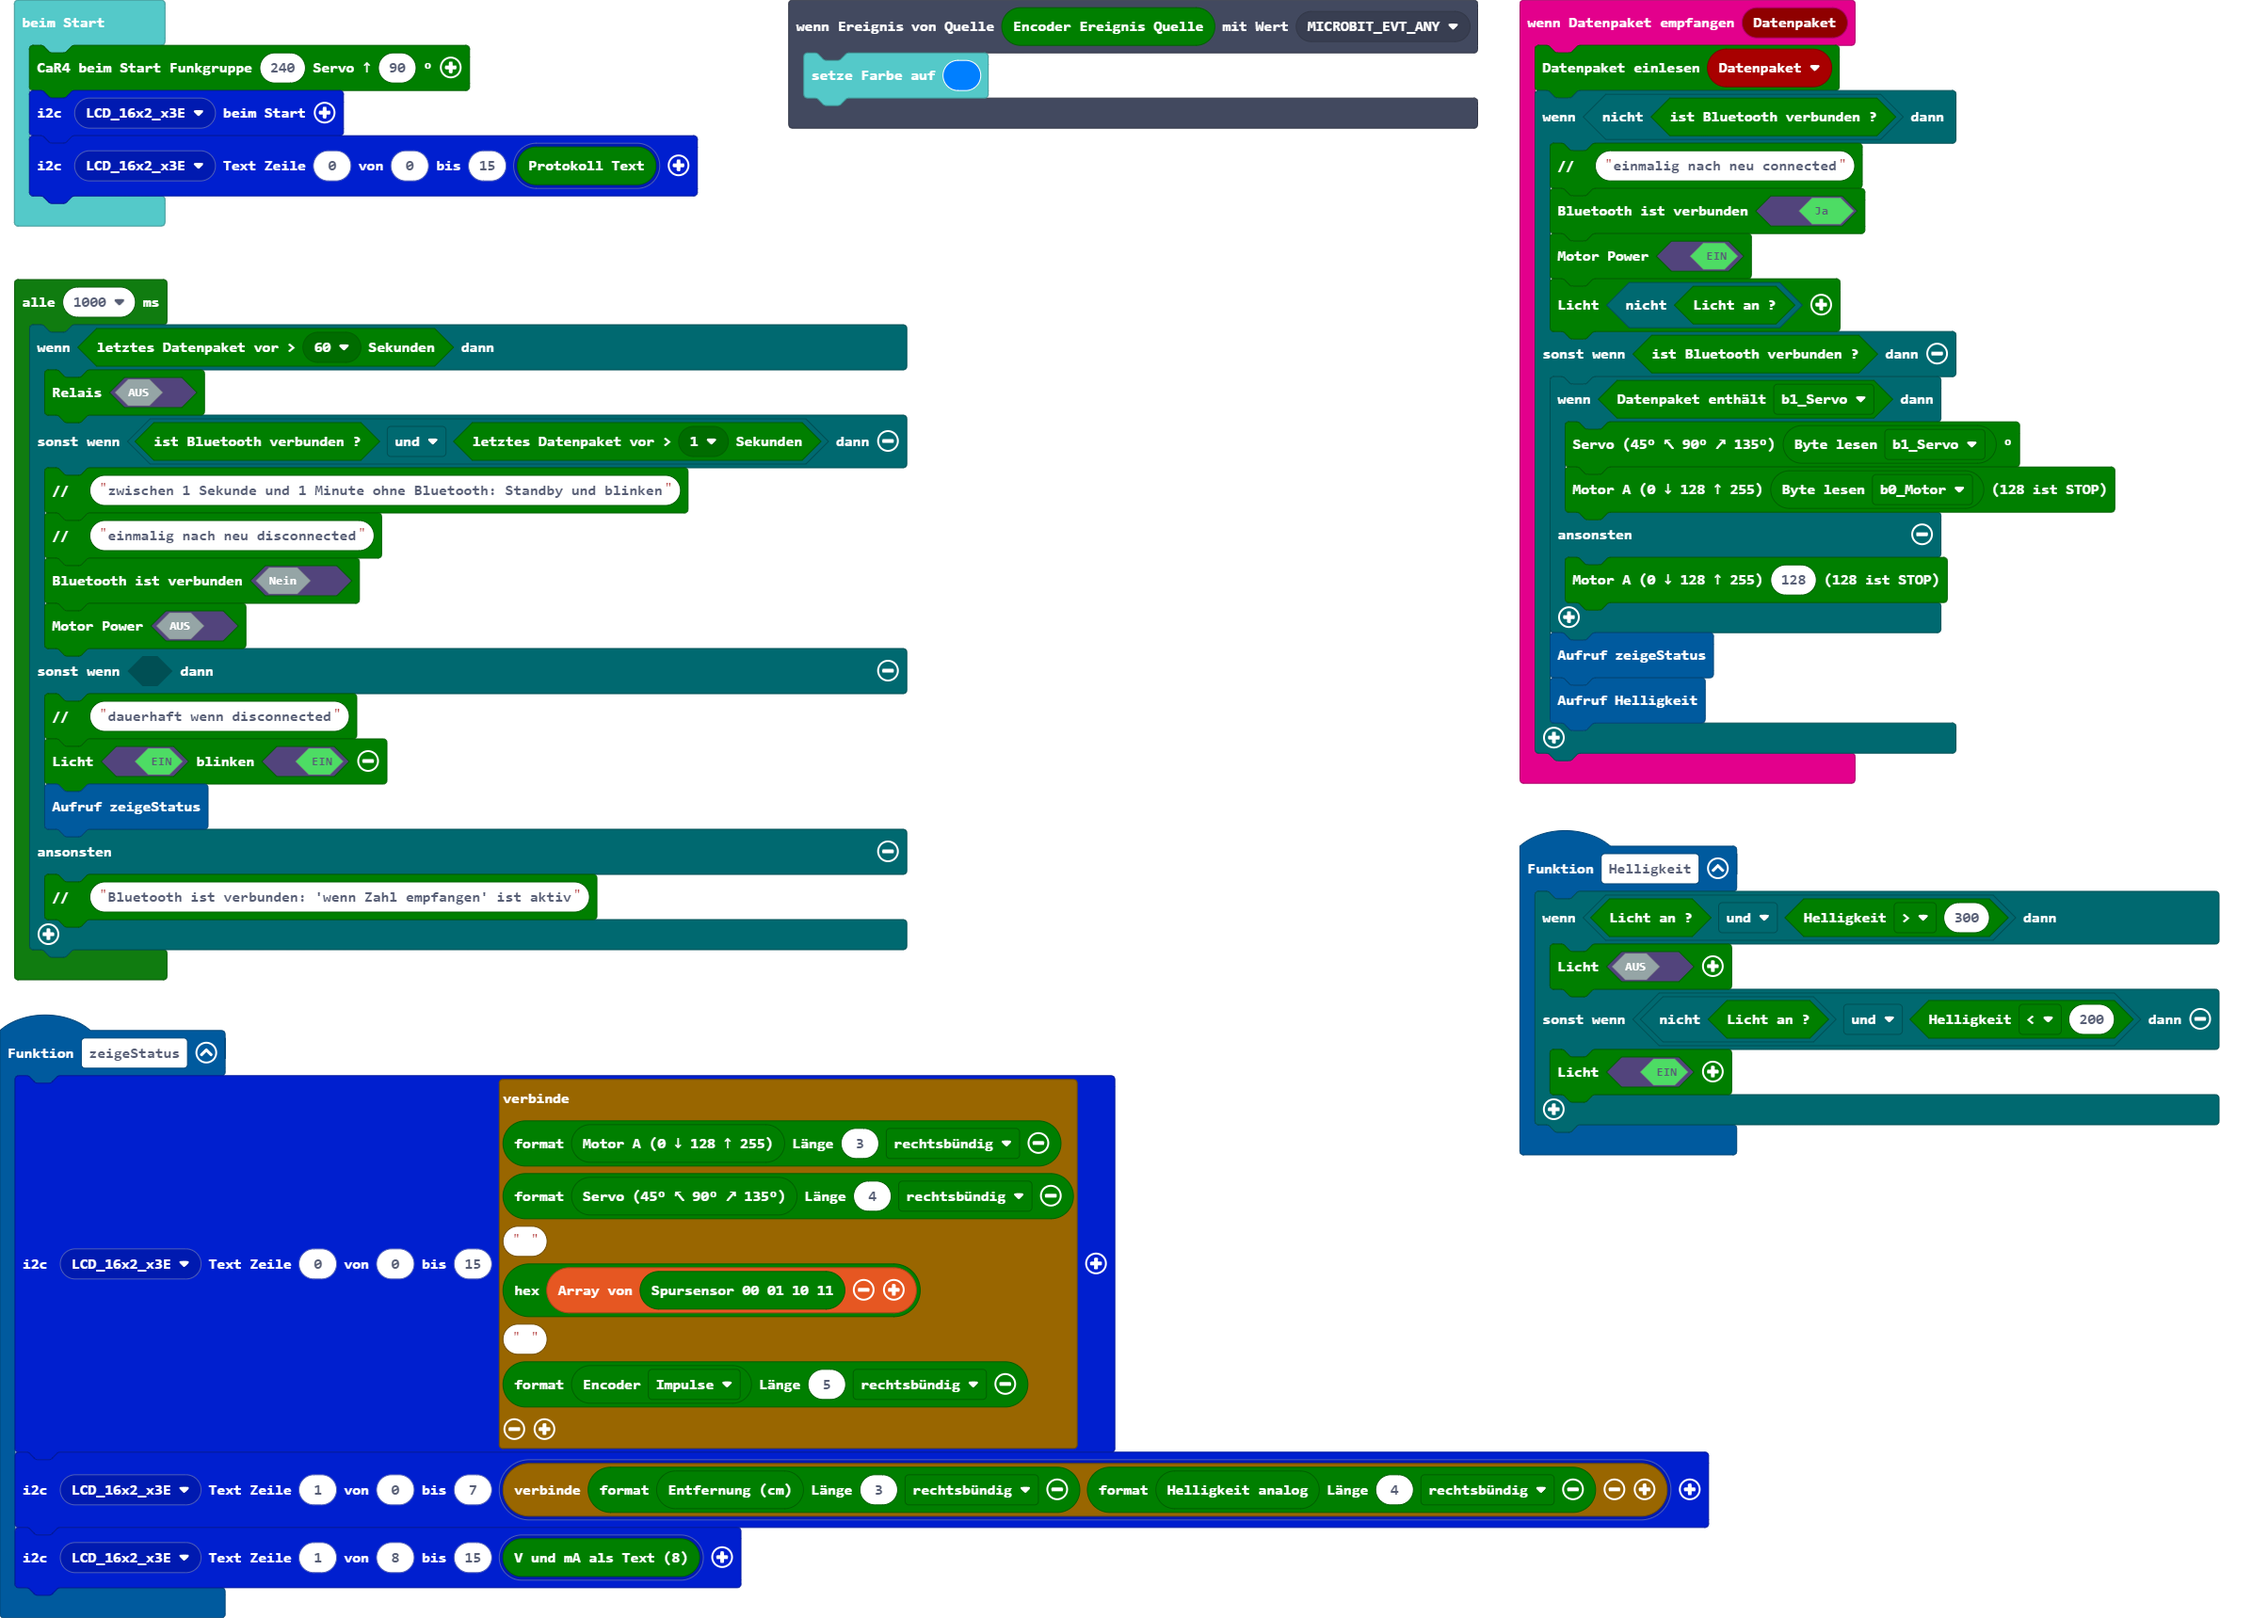
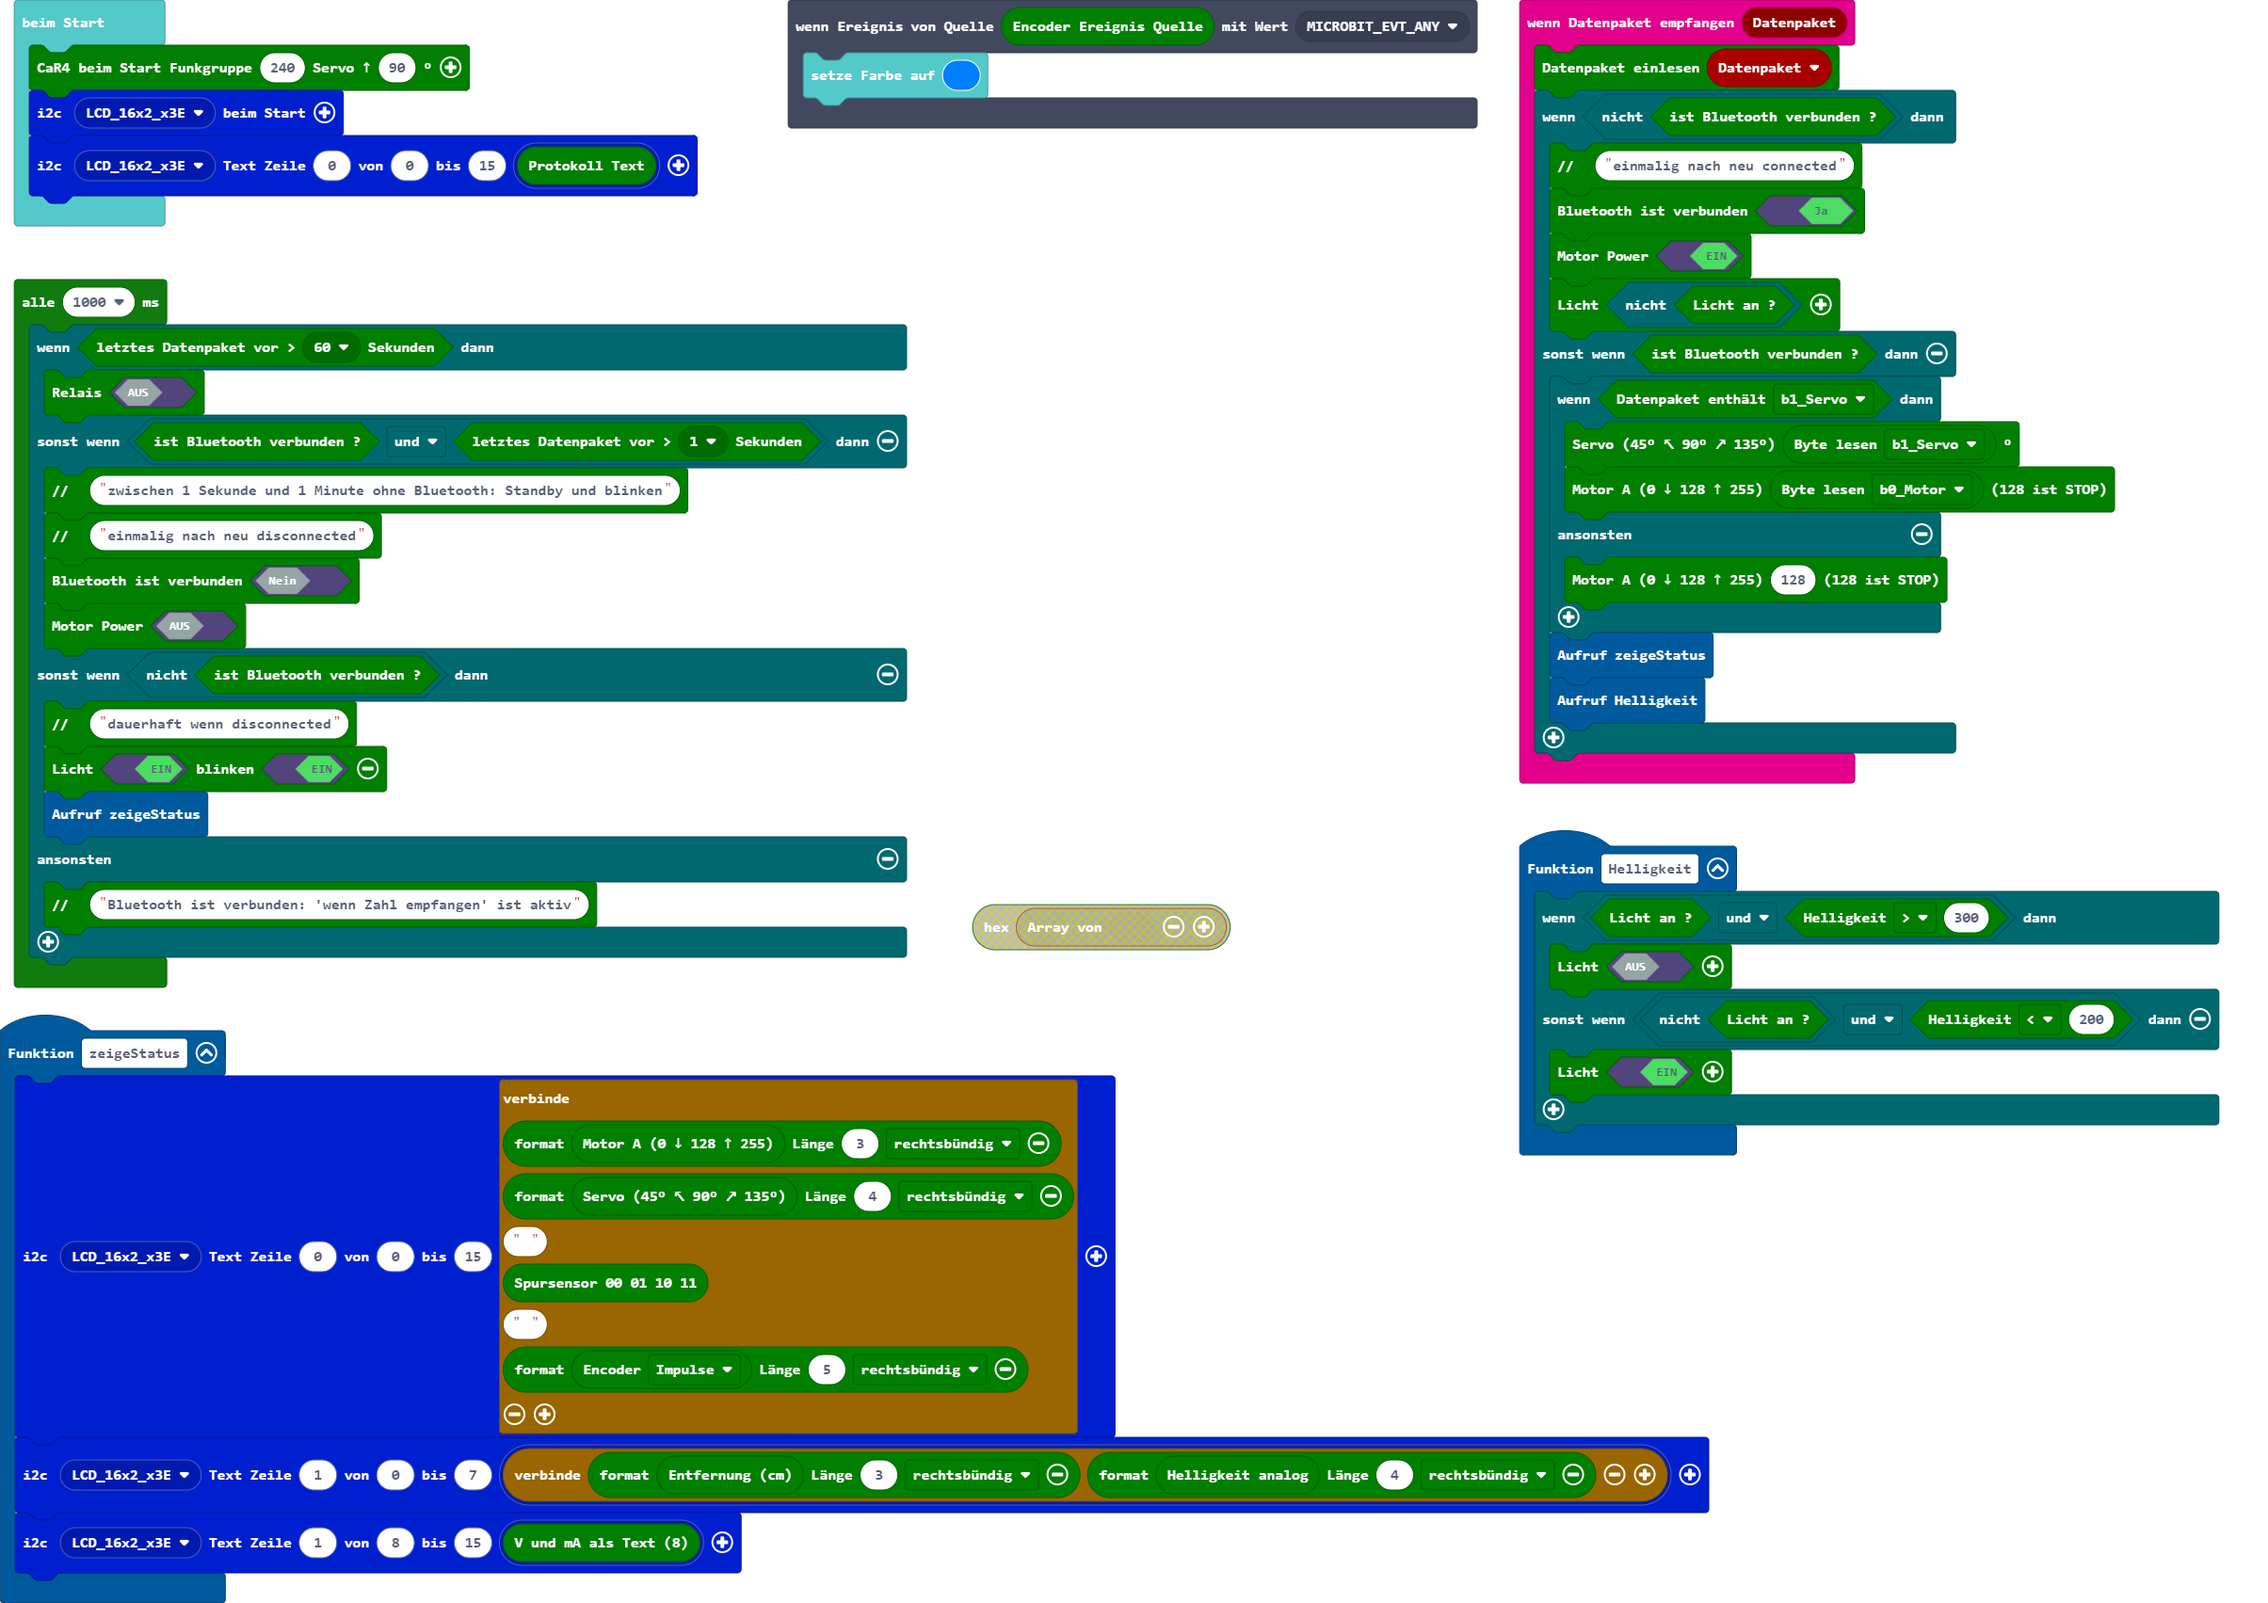
Aktualisiere main.blocks, main.ts

diff --git a/main.ts b/main.ts
@@ -1,5 +1,5 @@
 function zeigeStatus () {
-    lcd16x2rgb.writeText(lcd16x2rgb.lcd16x2_eADDR(lcd16x2rgb.eADDR_LCD.LCD_16x2_x3E), 0, 0, 15, "" + car4.format(car4.motorAget(), 3, car4.eAlign.right) + car4.format(car4.servo_get(), 4, car4.eAlign.right) + " " + car4.hex([car4.spursensor_get()]) + " " + car4.format(car4.encoder_get(car4.eEncoderEinheit.Impulse), 5, car4.eAlign.right))
+    lcd16x2rgb.writeText(lcd16x2rgb.lcd16x2_eADDR(lcd16x2rgb.eADDR_LCD.LCD_16x2_x3E), 0, 0, 15, "" + car4.format(car4.motorAget(), 3, car4.eAlign.right) + car4.format(car4.servo_get(), 4, car4.eAlign.right) + " " + car4.spursensor_get() + " " + car4.format(car4.encoder_get(car4.eEncoderEinheit.Impulse), 5, car4.eAlign.right))
     lcd16x2rgb.writeText(lcd16x2rgb.lcd16x2_eADDR(lcd16x2rgb.eADDR_LCD.LCD_16x2_x3E), 1, 0, 7, lcd16x2rgb.lcd16x2_text("" + car4.format(car4.entfernung_cm(), 3, car4.eAlign.right) + car4.format(car4.helligkeit_analog(), 4, car4.eAlign.right)))
     lcd16x2rgb.writeText(lcd16x2rgb.lcd16x2_eADDR(lcd16x2rgb.eADDR_LCD.LCD_16x2_x3E), 1, 8, 15, lcd16x2rgb.lcd16x2_text(car4.wattmetertext()))
 }
@@ -42,7 +42,7 @@ loops.everyInterval(1000, function () {
         car4.comment("einmalig nach neu disconnected")
         car4.setConnected(false)
         car4.motorON(false)
-    } else if (false) {
+    } else if (!(car4.isConnected())) {
         car4.comment("dauerhaft wenn disconnected")
         car4.licht(true, true)
         zeigeStatus()
